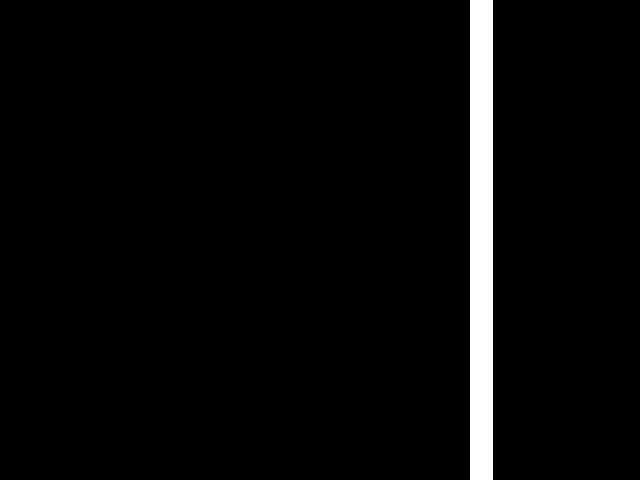
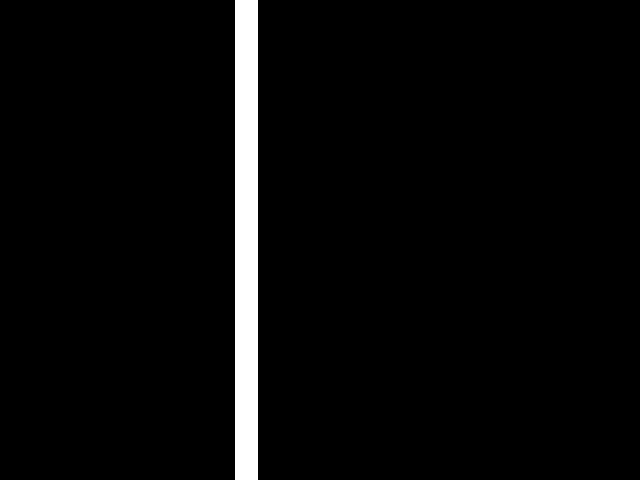
position functions

Changed region(s): [[0.7188, 0.0, 0.7812, 1.0], [0.3438, 0.0, 0.4062, 1.0]]

diff --git a/AI and controls/Controls test/track_vision.py b/AI and controls/Controls test/track_vision.py
@@ -2,7 +2,9 @@ import cv2 as cv
 import threading
 import cv2.aruco as aruco
 import numpy as np
+import json
 from pathlib import Path
+import math
 # from defisheye import Defisheye
 
 line_pos_x = ""
@@ -17,6 +19,33 @@ class RaceData:
 
 def is_intersecting(mask1, mask2):
     return cv.countNonZero(cv.bitwise_and(mask1, mask2)) > 0
+
+
+def car_pos(car_mask):
+    moment = cv.moments(car_mask)
+    cx = int(moment["m10"] / moment["m00"])
+    cy = int(moment["m01"] / moment["m00"])
+    return cx, cy
+
+
+def car_direction(corners):
+    if corners:
+        for i, corner in enumerate(corners):
+            p1 = corner[0][0]
+            p2 = corner[0][1]
+            dx = p2[0] - p1[0]
+            dy = p2[1] - p1[1]
+            angle = math.degrees(math.atan2(dy, dx))
+            return angle
+
+
+def checkpoint_positions(checkpoint_mask):
+    order = []
+    pass
+
+
+def checkpoint_position(checkpoint, x_pos, y_pos):
+    pass
 
 
 def get_line_orientation(line):
@@ -115,6 +144,12 @@ def get_finishline(img):
     global line_pos_y
     line_pos_x = white_pixels_side(mask, axis="x")
     line_pos_y = white_pixels_side(mask, axis="y")
+
+    data = {"line_x": line_pos_x, "line_y": line_pos_y}
+    if Path("Track data/line_data.json").exists():
+        with open("Track data/line_data.json", "w") as f:
+            json.dump(data, f, indent=4)
+
     track = cv.imread("Track data/track_mask.jpg", cv.IMREAD_GRAYSCALE)
     ys, xs = np.where(track == 255)
 
@@ -325,11 +360,16 @@ def race_loop(player1, player2=None, race_data=RaceData(1, False)):
             if ids is not None:
                 for i, marker_id in enumerate(ids.flatten()):
                     if marker_id == user.arucoID:
+                        if not user.is_player:
+                            dir = car_direction(corners)
                         pts = corners[i][0].astype(np.int32)
                         cv.fillConvexPoly(mask, pts, (255, 255, 255))
 
                 kernel = np.ones((9, 9), np.uint8)
                 mask = cv.dilate(mask, kernel, iterations=2)
+
+                dir = car_pos(mask)
+                print(dir)
 
             if cv.countNonZero(mask) > 0:
                 last_car = mask
@@ -381,6 +421,9 @@ def initialize_data():
 
 
 if __name__ == "__main__":
-    save_track_data()
+    track = cv.imread("Track data/track_mask.jpg", cv.IMREAD_GRAYSCALE)
+    track = cv.resize(track, (128, 96))
+    cv.imwrite("Track data/map.jpg", track)
+    # save_track_data()
     # user1 = User(pygame.joystick.Joystick(0), "Player 1")
     # race_loop(user1, None)

diff --git a/AI and controls/Controls test/race_main.py b/AI and controls/Controls test/race_main.py
@@ -49,6 +49,7 @@ class User:
         self.id = player_number
         self.arucoID = arucoID
         self.raceTime = 0
+        self.is_player = is_player
         self.completedRace = False
         self.nextCheckpointIndex = 0
         self.lapsCompleted = 0
@@ -139,7 +140,7 @@ def start_race():
     from track_vision import race_loop, initialize_data
 
     pygame.init()
-    user1 = User(1, "Pekka Pomo", 1, True)
+    user1 = User(1, "Pekka Pomo", 1, False)
     race_data = RaceData(3, True)
 
     initialize_data()
